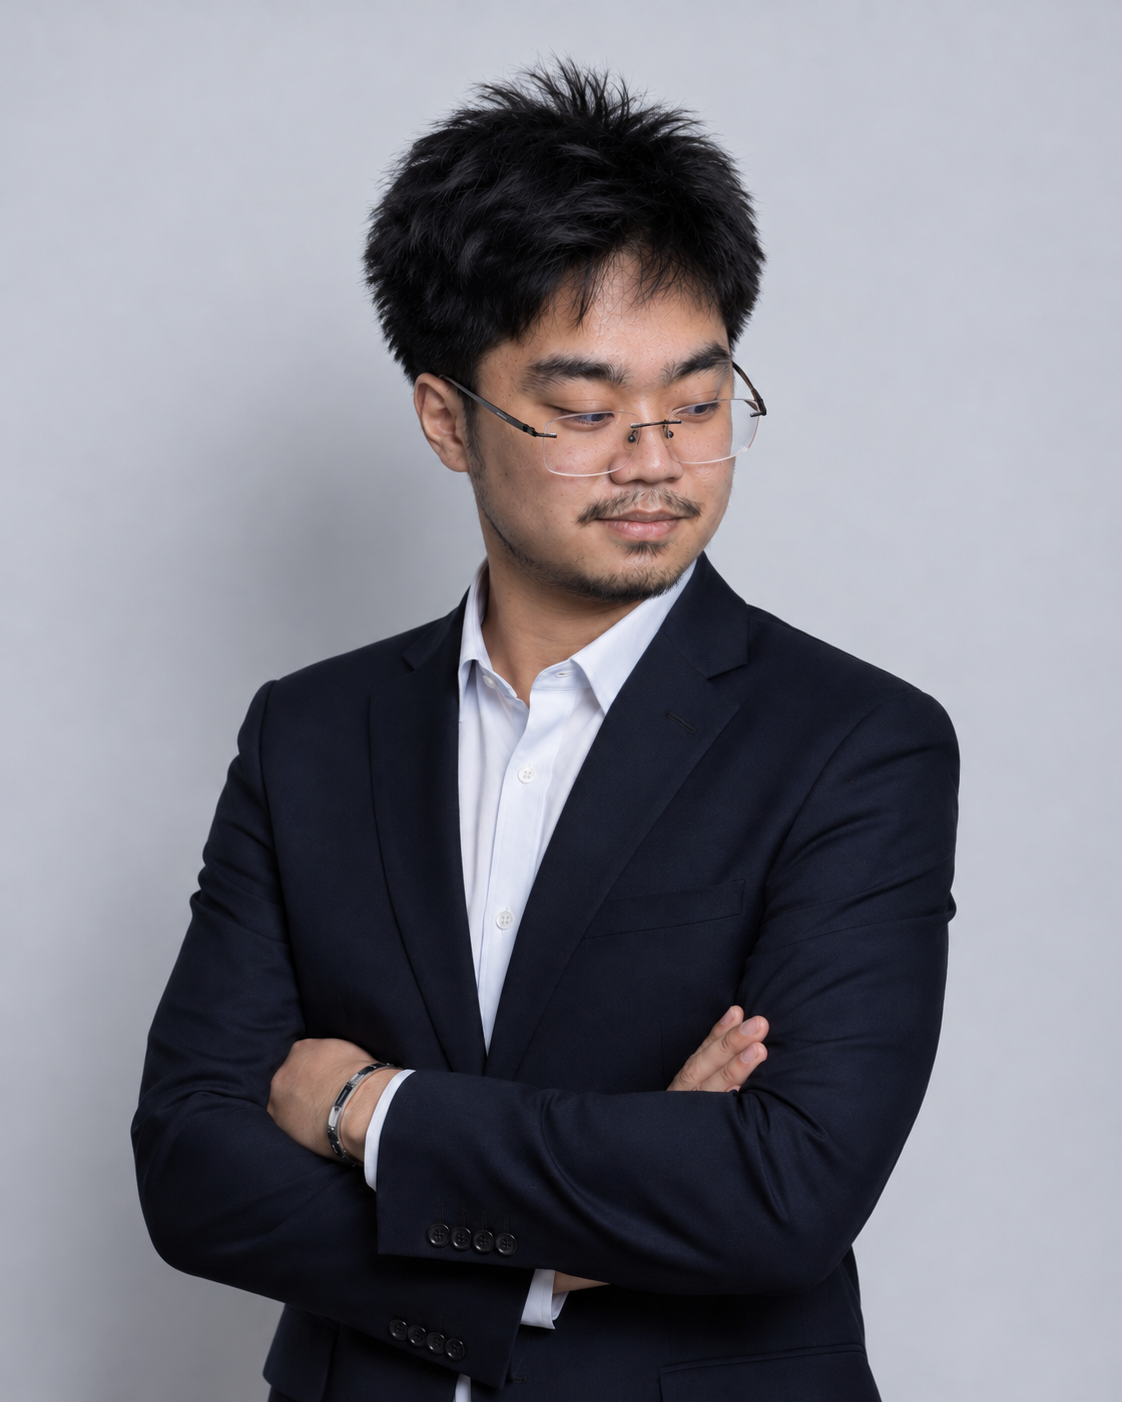
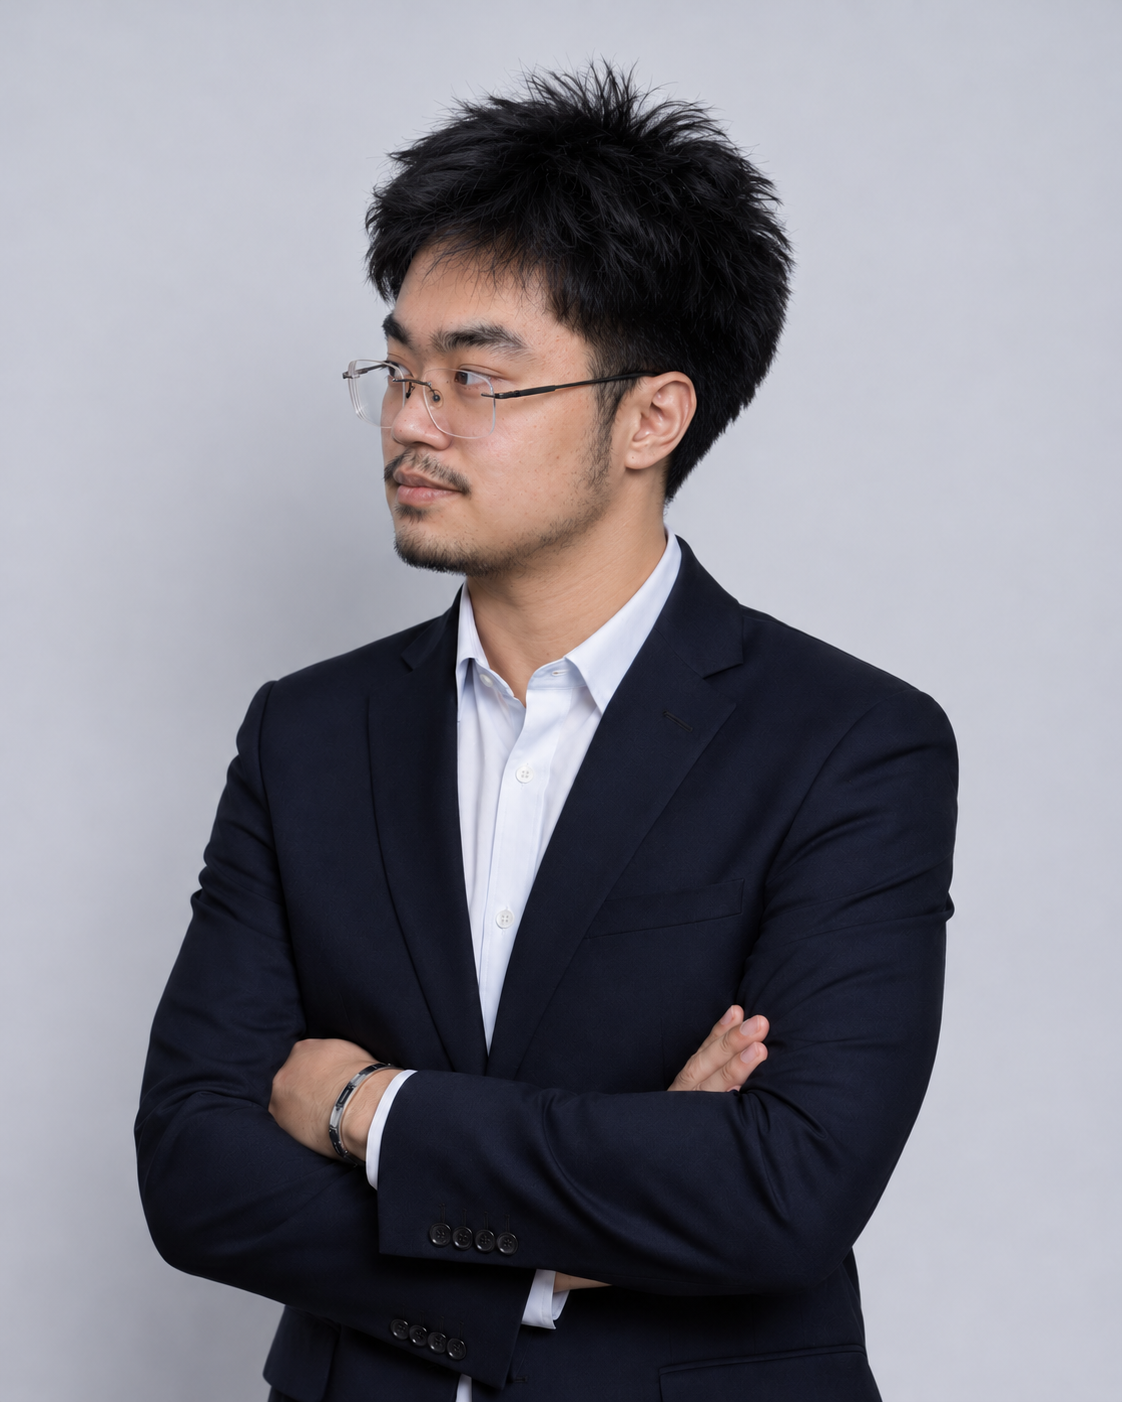
Add certifications feature

diff --git a/src/app/admin/certifications/page.tsx b/src/app/admin/certifications/page.tsx
@@ -28,6 +28,7 @@ type Certification = {
 type FormState = Omit<Certification, "id" | "badge_url">;
 
 const MAX_BADGE_SIZE = 5 * 1024 * 1024;
+const BADGE_BUCKET = "certification-badges";
 const ALLOWED_BADGE_TYPES = ["image/png", "image/jpeg", "image/webp", "image/svg+xml"];
 const ALLOWED_BADGE_EXTENSIONS = ["png", "jpg", "jpeg", "webp", "svg"];
 const BADGE_CONTENT_TYPES: Record<string, string> = {
@@ -71,6 +72,27 @@ function validateBadgeFile(file: File) {
 function getBadgeContentType(file: File) {
   const extension = file.name.split(".").pop()?.toLowerCase() || "";
   return file.type || BADGE_CONTENT_TYPES[extension] || "application/octet-stream";
+}
+
+function getBadgeStoragePath(badgeUrl: string | null | undefined) {
+  if (!badgeUrl) return null;
+
+  try {
+    const url = new URL(badgeUrl);
+    const prefix = `/storage/v1/object/public/${BADGE_BUCKET}/`;
+    if (!url.pathname.startsWith(prefix)) return null;
+    return decodeURIComponent(url.pathname.slice(prefix.length));
+  } catch {
+    return null;
+  }
+}
+
+async function removeBadgeFile(badgeUrl: string | null | undefined) {
+  const path = getBadgeStoragePath(badgeUrl);
+  if (!path) return;
+
+  const { error } = await supabase.storage.from(BADGE_BUCKET).remove([path]);
+  if (error) throw error;
 }
 
 function formatCertificationDate(value: string | null) {
@@ -246,7 +268,9 @@ export default function ManageCertifications() {
         throw new Error("Name, issuer, and issue date are required.");
       }
 
-      let badgeUrl = currentEditingId && !badgeRemoved ? items.find((item) => item.id === currentEditingId)?.badge_url || null : null;
+      const previousBadgeUrl = currentEditingId ? items.find((item) => item.id === currentEditingId)?.badge_url || null : null;
+      let badgeUrl = currentEditingId && !badgeRemoved ? previousBadgeUrl : null;
+      let uploadedBadgePath = "";
 
       if (selectedBadge) {
         const validationError = validateBadgeFile(selectedBadge);
@@ -254,14 +278,15 @@ export default function ManageCertifications() {
 
         const extension = selectedBadge.name.split(".").pop()?.toLowerCase() || "bin";
         const filePath = `certifications/${crypto.randomUUID()}.${extension}`;
-        const upload = await supabase.storage.from("certification-badges").upload(filePath, selectedBadge, {
+        const upload = await supabase.storage.from(BADGE_BUCKET).upload(filePath, selectedBadge, {
           cacheControl: "3600",
           upsert: false,
           contentType: getBadgeContentType(selectedBadge),
         });
 
         if (upload.error) throw upload.error;
-        badgeUrl = supabase.storage.from("certification-badges").getPublicUrl(filePath).data.publicUrl;
+        uploadedBadgePath = filePath;
+        badgeUrl = supabase.storage.from(BADGE_BUCKET).getPublicUrl(filePath).data.publicUrl;
       }
 
       const payload = {
@@ -280,11 +305,25 @@ export default function ManageCertifications() {
         ? await supabase.from("certifications").update(payload).eq("id", currentEditingId)
         : await supabase.from("certifications").insert(payload);
 
-      if (result.error) throw result.error;
+      if (result.error) {
+        if (uploadedBadgePath) {
+          await supabase.storage.from(BADGE_BUCKET).remove([uploadedBadgePath]);
+        }
+        throw result.error;
+      }
+
+      let cleanupWarning = "";
+      if (previousBadgeUrl && (selectedBadge || badgeRemoved)) {
+        try {
+          await removeBadgeFile(previousBadgeUrl);
+        } catch {
+          cleanupWarning = "Certification saved, but the previous badge file could not be removed.";
+        }
+      }
 
       const nextItems = await loadCertifications();
       resetForm(nextItems);
-      setSuccess(currentEditingId ? "Certification updated." : "Certification added.");
+      setSuccess(cleanupWarning || (currentEditingId ? "Certification updated." : "Certification added."));
     } catch (saveError) {
       setError(saveError instanceof Error ? saveError.message : "Could not save certification.");
     } finally {
@@ -301,8 +340,15 @@ export default function ManageCertifications() {
       return;
     }
 
-    setSuccess("Certification deleted.");
+    let cleanupWarning = "";
+    try {
+      await removeBadgeFile(item.badge_url);
+    } catch {
+      cleanupWarning = "Certification deleted, but its badge file could not be removed.";
+    }
+
     await loadCertifications();
+    setSuccess(cleanupWarning || "Certification deleted.");
   }
 
   if (loading) return <main className="loading-screen">Loading certifications…</main>;

diff --git a/src/components/PublicNavbar.tsx b/src/components/PublicNavbar.tsx
@@ -6,13 +6,13 @@ import { CloseIcon, GithubIcon, MenuIcon } from "@/components/Icons";
 const links = [
   { href: "#about", label: "About" },
   { href: "#skills", label: "Capabilities" },
+  { href: "#certifications", label: "Certifications" },
   { href: "#projects", label: "Work" },
   { href: "#contact", label: "Contact" },
 ];
 
-export default function PublicNavbar({ displayName, githubUrl, showCertifications = false }: { displayName: string; githubUrl?: string; showCertifications?: boolean }) {
+export default function PublicNavbar({ displayName, githubUrl }: { displayName: string; githubUrl?: string }) {
   const [open, setOpen] = useState(false);
-  const navigationLinks = showCertifications ? [links[0], links[1], { href: "#certifications", label: "Certifications" }, links[2], links[3]] : links;
 
   return (
     <header className="site-header">
@@ -25,7 +25,7 @@ export default function PublicNavbar({ displayName, githubUrl, showCertification
         </a>
 
         <nav className="desktop-nav" aria-label="Primary navigation">
-          {navigationLinks.map((link) => <a key={link.href} href={link.href}>{link.label}</a>)}
+          {links.map((link) => <a key={link.href} href={link.href}>{link.label}</a>)}
         </nav>
 
         <div className="nav-actions">
@@ -42,7 +42,7 @@ export default function PublicNavbar({ displayName, githubUrl, showCertification
       {open && (
         <nav id="mobile-navigation" className="mobile-nav" aria-label="Mobile navigation">
           <div className="site-container">
-            {navigationLinks.map((link) => <a key={link.href} href={link.href} onClick={() => setOpen(false)}>{link.label}</a>)}
+            {links.map((link) => <a key={link.href} href={link.href} onClick={() => setOpen(false)}>{link.label}</a>)}
             {githubUrl && <a href={githubUrl} target="_blank" rel="noopener noreferrer">GitHub</a>}
           </div>
         </nav>

diff --git a/src/app/page.tsx b/src/app/page.tsx
@@ -82,7 +82,6 @@ export default async function Home() {
   const heroBio = portfolioProfile?.short_bio?.trim() || "I help teams solve operational problems with reliable systems, practical support, and web tools that are clear enough to maintain.";
   const heroLocation = portfolioProfile?.location?.trim() || "";
   const hasPortrait = Boolean(portfolioProfile?.profile_image_url);
-  const showCertificationsInNav = certifications.length >= 3;
   const groupedSkills = portfolioSkills.reduce<Record<string, Skill[]>>((groups, skill) => {
     const category = skill.category?.trim() || "Other";
     (groups[category] ||= []).push(skill);
@@ -92,7 +91,7 @@ export default async function Home() {
   return (
     <main id="top" className="portfolio-shell">
       <a className="skip-link" href="#hero-title">Skip to main content</a>
-      <PublicNavbar displayName={heroName} githubUrl={githubUrl} showCertifications={showCertificationsInNav} />
+      <PublicNavbar displayName={heroName} githubUrl={githubUrl} />
 
       <section className="hero" aria-labelledby="hero-title">
         <div className="site-container hero-inner">
